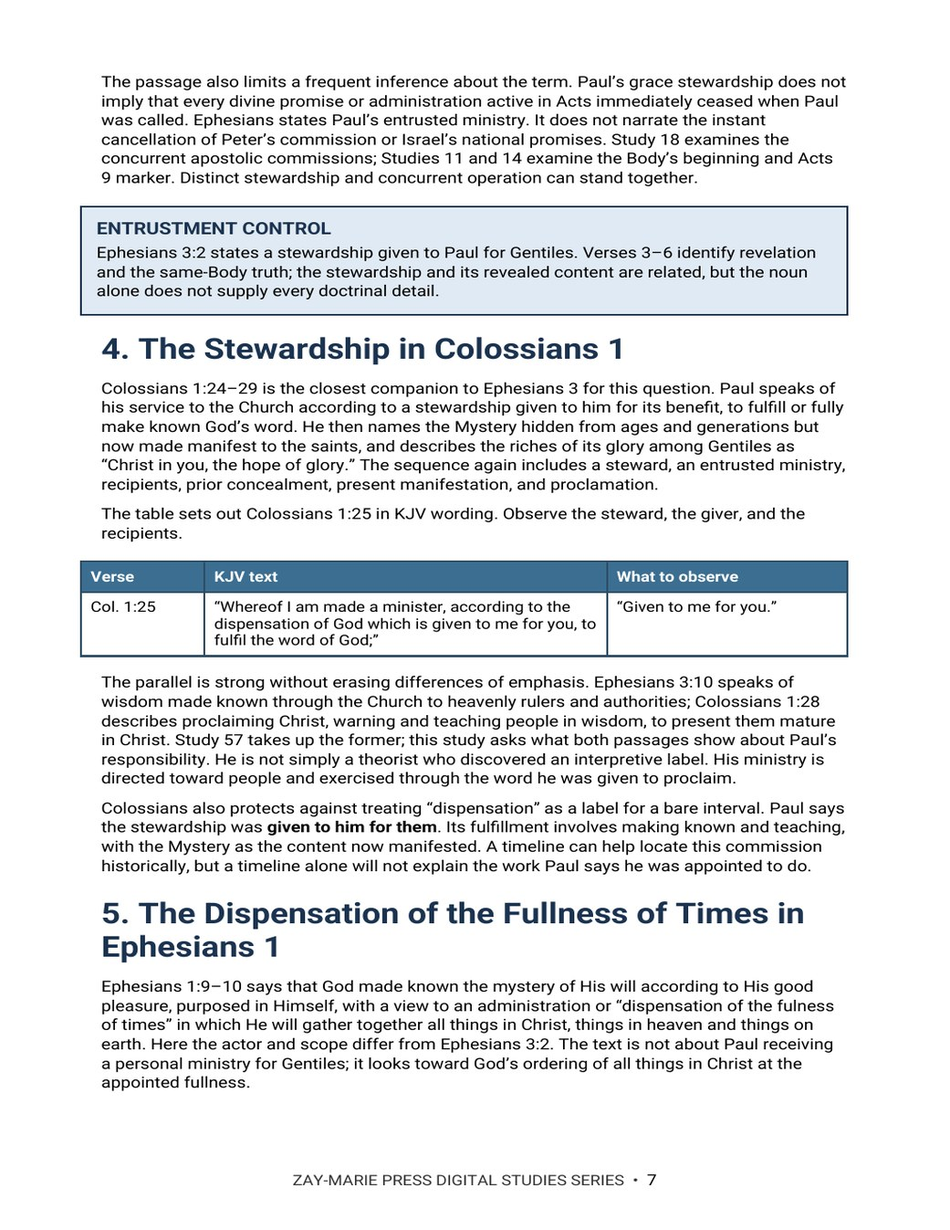
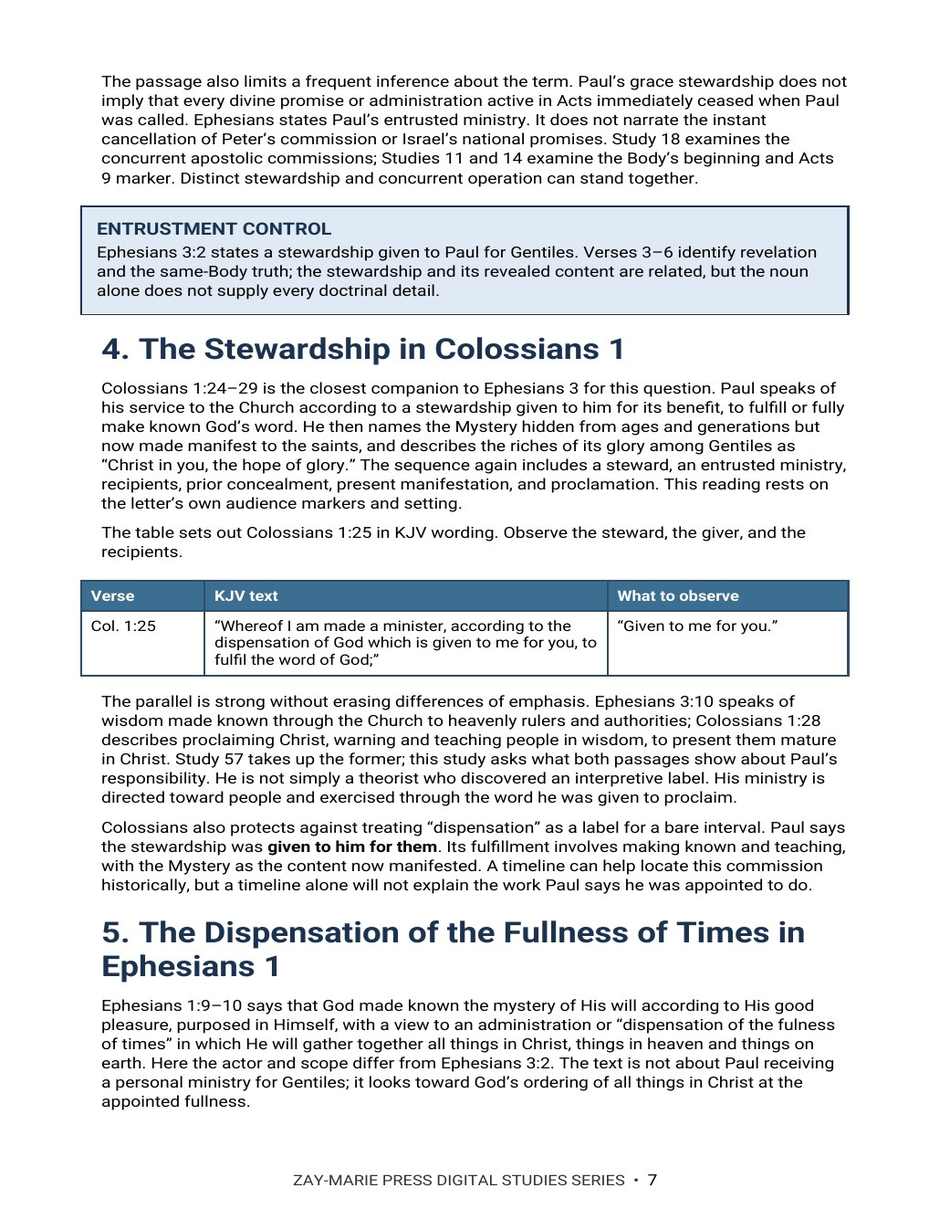
Study 58 retrofit: page-7 preview, site.js 58:16, trackers v1.20 / PAM audit v1.113
Claude-Session: https://claude.ai/code/session_01KcENxFzE91mCRyTPWhcwnE

diff --git a/site.js b/site.js
@@ -62,7 +62,7 @@ const resourceModal=document.querySelector('#resource-modal'), resourceModalTitl
 if(resourceModal&&resourceModalTriggers.length){const closeResourceModal=()=>{resourceModal.hidden=true;document.body.classList.remove('resource-modal-open');lastResourceTrigger?.focus();};resourceModalTriggers.forEach(trigger=>trigger.addEventListener('click',()=>{lastResourceTrigger=trigger;if(resourceModalTitle)resourceModalTitle.textContent=trigger.dataset.title||'Resource';if(resourceModalDescription)resourceModalDescription.textContent=trigger.dataset.description||'';if(resourceModalLink){resourceModalLink.href=trigger.dataset.href||'#';resourceModalLink.textContent=trigger.dataset.linkText||'OPEN RESOURCE';}resourceModal.hidden=false;document.body.classList.add('resource-modal-open');resourceModalClose?.focus();}));resourceModalClose?.addEventListener('click',closeResourceModal);resourceModal.addEventListener('click',e=>{if(e.target===resourceModal)closeResourceModal();});document.addEventListener('keydown',e=>{if(e.key==='Escape'&&!resourceModal.hidden)closeResourceModal();});}
 
 /* Display the verified final-PDF page count at the primary purchase decision point. */
-const digitalStudyPageCounts={1:14,2:14,3:18,4:18,5:16,6:16,7:16,8:16,9:16,10:23,11:15,12:14,13:19,14:15,15:16,16:16,17:18,18:18,19:16,20:16,21:16,22:16,23:16,24:16,25:17,26:18,27:16,28:16,29:16,30:17,31:19,32:16,33:16,34:16,35:16,36:16,37:16,38:16,39:16,40:16,41:16,42:16,43:16,44:16,45:16,46:16,47:16,48:16,49:17,50:16,51:16,52:16,53:16,54:16,55:16,56:16,57:16,61:16,62:16,63:16,64:16,65:16,66:16,67:16,68:16,69:16,70:16,71:16};
+const digitalStudyPageCounts={1:14,2:14,3:18,4:18,5:16,6:16,7:16,8:16,9:16,10:23,11:15,12:14,13:19,14:15,15:16,16:16,17:18,18:18,19:16,20:16,21:16,22:16,23:16,24:16,25:17,26:18,27:16,28:16,29:16,30:17,31:19,32:16,33:16,34:16,35:16,36:16,37:16,38:16,39:16,40:16,41:16,42:16,43:16,44:16,45:16,46:16,47:16,48:16,49:17,50:16,51:16,52:16,53:16,54:16,55:16,56:16,57:16,58:16,61:16,62:16,63:16,64:16,65:16,66:16,67:16,68:16,69:16,70:16,71:16};
 const digitalStudyMatch=window.location.pathname.match(/\/study-(\d+)-/i);
 const digitalStudyFormat=document.querySelector('.detail-hero .detail-format');
 if(digitalStudyMatch&&digitalStudyFormat){const studyNumber=Number(digitalStudyMatch[1]),pageCount=digitalStudyPageCounts[studyNumber];if(pageCount)digitalStudyFormat.textContent=`Digital PDF · ${pageCount} Pages`;}

diff --git a/CLAUDE.md b/CLAUDE.md
@@ -18,7 +18,7 @@ These are kept in the repo at `controlling-documents/` and are the current versi
 - **`controlling-documents/Zay-Marie_Press_Digital_Studies_Master_Standard_v1.45.pdf`** — Master Standard v1.45 (an editable `.docx` copy sits beside the PDF). Governs study structure, cover, PDF assembly, website package and publication (includes §16 Individual Study Preview Selection Standard). §16 fixes the preview set at exactly three pages: Table of Contents, What You Will Learn, and one further page of real substance that does not give away the study's thesis. As of v1.19, §2 (Forward Cover System) adds a Cover Art Brief step: Claude drafts a detailed written cover art description (image concept, composition, palette, lighting, symbolic content) for the publisher to hand to the illustrator, before the illustrator produces artwork — see Approval Checkpoint 3 below. As of v1.20, §6 (Body-Content Standard) fixes exact interior spacing values: body paragraphs 6pt space-after / 0pt space-before / 1.08 line spacing; Heading 1 14pt space-before / 8pt space-after; Heading 2 10pt space-before / 5pt space-after. As of v1.21, §9 (Content-Depth and Page-Length Standard) fixes the substantive-interior page count at exactly 15 pages, replacing the prior 13–17 page range; matching references updated in the Page-Count Control note (§3) and Stages 2 and 4 of the Study Development and Approval Workflow (§14). As of v1.22, §18 (About This Study — Related-Study Distinction Standard, originally added as §17 and renumbered by v1.24) requires a second paragraph in every study's About This Study section, placed before the "How These Studies Relate" box: it names the specific neighbouring studies a reader might confuse this one with, states what ground each one covers that this study doesn't (or vice versa), and closes with the single narrower question this study alone answers — see the "About This Study" bullet below. Governs new studies going forward; existing studies get it when reopened or when the publisher directs a retrofit. As of v1.23, §13 (Tables Symbols and Contrast Standard) changes the table-header treatment from dark navy to Slate Blue (#3B6E91) with high-contrast light text retained; the border-color cross-reference in the same section is updated to match. Applies to all studies going forward. As of v1.24, new §17 (Preview-Page Interpretive-Outcome Standard) codifies the publisher's 2026-09-28 preview-page conclusion-spoiler directive (see the section below) as a Master Standard requirement: preview pages must state interpretive outcomes and name the textual markers the reader will trace, never the study's doctrinal conclusion. Adding it renumbered the former §17/§18/§19 to §18 (About This Study), §19 (Locked Status), and §20 (Version History). As of v1.25 (publisher directive, 2026-09-28), §5 (Table of Contents Standard) requires Arabic numerals only — Roman numerals are never used in a Table of Contents — and a single flat list on one left-aligned axis: What You Will Learn in This Study, Introduction, the teaching sections numbered exactly as in the body, then Conclusion through Final Synthesis; Study Goal and Study Outline are not TOC entries. As of v1.26 and v1.27 (publisher directive, 2026-09-30), §8 (renamed Color and Typography Control) carries the Interior Typeface Standard: every Digital Study interior and Doctrinal Packet, headings included, is set in **Roboto** in four true faces (Regular, Italic, Bold, Bold Italic; static files; lining numerals), with no other or fallback font embedded. v1.26 first specified EB Garamond; the publisher replaced it with Roboto in v1.27 after a Study 2 test build. It applies to all studies past, present and future, and to Doctrinal Packets; Stages 3 and 4 of §14 require it and a `pdffonts` check. Existing studies move to it when reopened or when the publisher directs. The static Roboto files and the build recipe are in `fonts/` (see `fonts/README.md`); the Framework carries the rule as PAM Rule 6 and a dated Section 4 (continued) entry. The v1.26/v1.27 files were rebuilt from the publisher's v1.13 DOCX (Sections 1–2) plus the v1.25 text. As of v1.28 (publisher directive, 2026-09-30): §4 requires exactly five callouts per study, all boxed (light-blue box, 1 pt dark navy border, bold uppercase navy title; extra source callouts become body paragraphs with a bold run-in lead, wording unchanged); §10 places the copyright notice only in the end imprint, with no front copyright page; §13 makes table body rows plain white under Slate Blue headers. As of v1.29 (publisher directive, 2026-09-30), §5 sets Table of Contents entries at the body-paragraph spacing (6 pt after, 1.08 line spacing) as first shown in Study 5, for studies built from Study 6 forward; Studies 1–5 and 9 keep their current TOC spacing unless reopened. As of v1.30 (publisher directive, 2026-09-30), §6 sets Heading 1 (numbered major sections) at 12 pt space-before and 8 pt space-after, replacing 14 pt space-before, as compared side by side on Study 6 page 5; it applies to studies built from Study 6 forward, and Studies 1–5 and 9 (built at 14 pt) are not reopened for it. Heading 2 (10/5) and body paragraphs (6 pt after, 1.08) are unchanged. As of v1.31 (publisher directive, 2026-10-01), new §19 (Catalog Category Standard) fixes the five catalog categories, the ordered decision procedure, the precedents, the 71 final assignments and the cover-label forms (working copy and version history in `controlling-documents/Digital_Studies_Category_Standard_v1.1.md`); Locked Status and Version History moved to §20 and §21. As of v1.32 (publisher directive, 2026-10-01), the upper-right cover label must be the exact name of the study's catalog category (§2 Cover Architecture and §19 Cover Labels); the shortened and legacy labels RIGHT DIVISION, PROPHECY, DOCTRINE, INTERPRETATION and BIBLICAL DOCTRINE are retired and all 71 covers were re-lettered. As of v1.33 (publisher directive, 2026-10-01), new §20 (Doctrinal Drafting Standard) carries PAM Rules 7–10 from the Framework so settled rulings are applied without being asked again: identity wording ("the Israel of God" = believing Jews within the Body, Israel by identity; never "believing Israel" alone; never a remnant beside or outside the Body in the present administration; required clarifier "This speaks of identity, not program membership; the remnant is ethnic-covenantal, and believing Jews are gathered into the Body during the Mystery administration"; Gentiles participate spiritually, never called Israel or "spiritual Israel"); the anchoring-sentence rule for books the PAM does not assign (Hebrews, Revelation, James, 1 Peter, 2 John; Philippians, 1 Thessalonians, 2 Timothy; Gal 2:1–10 report-only); standing wording for the Acts divisions, "the 'one taken, one left' passages", Eph 2:14 "abolished for the Body", judgment and related rulings; and the review procedure (conforming wording is applied and noted in one line, and only a new or uncovered passage is reported for a ruling). Locked Status and Version History moved to §21 and §22. As of v1.34 (publisher directive, 2026-10-01), Rule 7 adds the overlap-period rule: Peter's believing company and the circumcision apostleship during Acts 9–28 may be described as continuing under the Prophecy Program only with the clarification "During the overlap, the circumcision apostleship ministers to Israel under the Prophecy Program; believing Jews are gathered into the Body through Paul's ministry, and this speaks of identity, not program membership" (program membership and corporate identity are not the same question; no believing Israelite is placed outside the Body after Acts 9). As of v1.35 (publisher directive, 2026-10-01), §20 adds Rule 11: Paul's fillings, signs and miraculous events in Acts 9–28 are overlap phenomena, reported from the text and not assigned to a single program; they occur in settings shaped by Israel's Prophecy Program, but Paul's participation does not convert them into Prophecy Program content or make them Mystery content (standing wording: "These are recorded in settings shaped by Israel's Prophecy Program, which remained operative throughout Acts 9–28 even as the Mystery Program began. Acts 9–28 is the overlap; where Paul or his companions are the ones filled or working signs, the study reports the text and does not assign the event to a single program."; Acts table column title "The Spirit's Activity Recorded in Acts"; speaker identity is not program identity, and historical participation is not doctrinal obligation). Rule 10 refers to Rules 1–9 and 11. As of v1.36 (publisher directive, 2026-10-01), §20 adds Rule 12: where the PAM does not assign a book or passage, the study may use the text for universal doctrinal truth without assigning the book to a program, and must include the anchoring sentence "The Framework does not assign this book; this reading rests on the passage's own audience markers and setting." (it extends Rule 8 to unassigned books and passages Rule 8 does not name); Rule 10 refers to Rules 1–9, 11 and 12. As of v1.45 (publisher directive, 2026-10-02), §20 Rules 8, 12 and 14 carry the **reader-facing wording rule, extended**: internal working terms never appear in reader-facing text. The Framework, the PAM (Program Assignment Manual), the Master Standard, rule numbers, standing sentences, anchoring sentences, review notes, audit trackers, "firewall" and every similar working term are never named, cited or alluded to in study text, website copy or Doctrinal Packets. The Rule 8 and Rule 12 anchor sentences and the Hebrews sentence are replaced by reader-facing forms: for a book, "This reading rests on the letter's own audience markers and setting."; for a passage, "This reading rests on the passage's own audience markers and setting." (plural "these passages … the passages' own audience markers and setting"); the Hebrews sentence becomes "This reading rests on the letter's own audience markers and on the covenant it quotes (Jeremiah 31:31–34), which belongs to the house of Israel and the house of Judah, the Body benefiting from Christ's blood without being the covenant party." Whether a line is needed is still decided by the reviewer's classification (book not assigned or listed; passage in a PAM-assigned book with no PAM entry; other Rule 12 cases), but the reader sees one sentence and no internal term. The v1.44 "The Framework does not assign …" and "The PAM makes no assignment …" wordings are WITHDRAWN and are converted when a study is reopened or in the Wave 5 sweep; first applied to Study 55. Written into the Framework Rules 8, 12 and 14 in the same pass. As of v1.44 (publisher directive, 2026-10-02), §20 Rule 12 adds **anchor wording by classification** (superseded by v1.45 for the sentence text) (also written into Framework Rule 12): a book the PAM does not assign or list (Philippians, Hebrews, James, 1 Peter, 2 John) keeps "The Framework does not assign [book] as a book; this reading rests on the letter's own audience markers and setting."; a passage inside a PAM-assigned book (Galatians, Romans, Ephesians, Corinthians, Acts, John, Luke) that has no PAM entry takes "The PAM makes no assignment for this passage; this reading rests on the passage's own audience markers and setting." (plural "these passages" where a line covers several). First applied to Study 51; every study brought through the retrofit is checked for it. As of v1.43 (publisher directive, 2026-10-02), §20 Rule 14 adds the **reader-facing wording rule** (also written into Framework Rule 14): "firewall," "Olive Tree Firewall" and similar control labels are internal drafting terms and never appear in study text, website copy or Doctrinal Packets; studies state the boundaries in plain language (for example "Four boundaries govern the reading:"), and any term a study has not itself introduced and defined is treated the same way. Studies 9, 13, 35 and 36 were corrected on 2026-10-02. As of v1.42 (publisher directive, 2026-10-02), §20 Rule 14 adds the **Romans 11 Strong Firewall** as a standing rule for every Romans 11 treatment in every study (also written into Framework Rule 14): Romans 11 explains prophetic participation, not corporate identity, covenant membership or Mystery formation; the wild branch does not become Israel, enter Israel's covenants or become a natural branch; the olive tree is not the Body; standing triad "Participation is not identity. Blessing is not covenant. Standing is not program membership."; "Identity is fixed by divine program, not by metaphor."; "Salvation has come to the Gentiles" means salvation, not covenant, prophetic identity or Israel's program; four-point governing list (olive tree = prophetic blessing; Romans 11 Gentiles = prophetic participants; wild branches are not Body members; grafting changes participation, not identity); warning line on identity transfer; concurrency close ("Concurrency is operational, not transformational."). Depth: a study that treats Romans 11 at length carries the full firewall in the voice of Study 13 v2 (the reference text); a passing citation carries at least the four-point list and the triad; a mild clarification is not sufficient. Studies 9, 21, 35, 36 and others are brought to it when reopened or when the publisher directs. As of v1.41 (publisher directive, 2026-10-02), Rules 7 and 15 carry two approved standing sentences for the retrofit: overlap — "During the overlap, the circumcision apostleship ministers to Israel under the Prophecy Program, and Paul's gospel forms the Body; the two operate concurrently and never merge, transfer or absorb one another." (replaces the withdrawn "gathered into the Body" sentence); Galatians 3 — "The seed is prophetic fulfillment in Christ; the Body receives blessing through Christ alone, not through participation in the Abrahamic covenant." (replaces all older Abrahamic-participation language). As of v1.40 (publisher directive, 2026-10-02), Rules 7 and 17 add the ruling that a Jewish member of the Body is not Israel: Body by identity, new creation by ontology, non-Israel by corporate identity, non-prophetic by program membership, non-covenantal by blessing structure, heavenly by destiny; ethnicity is a historical fact with no covenantal or programmatic force once a person is in the Body. The Rule 7 line "Israel remains Israel; the ethnic distinction is kept" is replaced by "Israel remains Israel, and the Body is not Israel"; the Framework identity sections (§V, PAM definition 2) carry it too. As of v1.39 (publisher directive, 2026-10-02), §20 adds Rule 17 (The remnant and the Body during Acts 9–28), also written into the Framework §XIX: the remnant never becomes the Body and stays outside the Body, the Mystery Program, the heavenly calling and Pauline identity; the Body is formed only by Paul's gospel from Acts 9, is gathered in on belief and is not Israel or the remnant; no shared identity, membership, covenant, gospel, hope, Spirit ministry or destiny; the standing summary sentence ("During Acts 9–28, the remnant remains Israel's prophetic believing company, and the Body remains the Mystery new creation. They coexist historically but never merge in identity, membership, calling, covenant, gospel, hope, or destiny. Concurrency is operational, not transformational.") and the one-sentence relationship rule are used wherever the relationship is stated; Rule 10 now reads "Rules 1–9 and 11–17". As of v1.38 (publisher directive, 2026-10-02), §20 (Doctrinal Drafting Standard) is amended and extended to carry the Framework's doctrinal upgrade: Rules 7–10 are rewritten and Rules 13–16 are added (see the Framework entry above for the points and the withdrawn wordings); Rule 10 now reads "Rules 1–9 and 11–16"; Rule 8 no longer lists Revelation as unassigned. As of v1.37 (publisher directive, 2026-10-02), a new "Study 52 Reference Standard" subsection in §6 makes Study 52 (Sonship and Adoption) the **golden standard** for the format, structure and blue/black type balance of every Digital Study from Study 53 forward: navy (#1B3350) only on major-section headings (Roboto Bold 17 pt), callout titles (10 pt bold caps) and the "Study Outline" sub-heading (12 pt bold); everything else black Roboto Regular 9 pt; numbered subsections (1.1, 1.2 …) are body-weight black lines at body spacing, not navy headings (as in Studies 50, 51 and 52); about 1–2% of interior characters navy; the section order, five boxed callouts, KJV tables (Verse / KJV text / What to observe), Scripture-Tracing, Review, Teaching Outline, Guided Further Study, Final Synthesis and single end imprint on a 16-page build. Studies 1–51 are NOT retrofitted and stay as published; build every new study to Study 52's final approved PDF/DOCX as the visual reference, and do not set subsections in navy. The §6 Heading 2 line was clarified (10/5 applies to unnumbered sub-headings such as "Study Outline"). See §22 Version History in the document itself.
 - **`controlling-documents/Digital_Studies_Relationship_Map_v1.39.md`** — records each study's distinct subject, its related studies, the eight priced six-study collections, the Paul's Missionary Journeys cross-reference map, and the five primary catalog categories (currently version 1.39, covers Studies 1–71; update it as new studies publish, bump the version number, rename the file to match, and log the change in its own version-history table — mirroring the Master Standard's `_vX.Y` filename convention). Check a proposed topic against it before recommending or writing a new study. (2026-09-28: the file was missing from this repo despite this note referencing it; replaced from the publisher's copy and bumped v1.15→v1.25 in the same pass. If this note ever again points to a version not present under `controlling-documents/`, ask the publisher for a copy rather than proceeding without the check.)
 - **`controlling-documents/Digital_Studies_Category_Standard_v1.1.md`** — FINAL and binding (publisher, 2026-10-01): the rules for the five primary catalog categories (Foundations, Israel & Prophecy, Body of Christ, Passages, Doctrinal Themes), the ordered decision procedure for new studies, the precedents, all 71 fixed assignments, and the cover-label form for each category. Read it before placing any card or cover label. Do not ask the publisher where a study belongs; apply the procedure and state the result. Only the publisher changes a ruling; then bump this Standard's version and filename, re-letter the cover, and update the Relationship Map.
-- **`controlling-documents/Doctrinal_Upgrade_Retrofit_Plan_v1.19.md`** — working tracker for retrofitting Studies 1–59 to the 2026-10-02 doctrinal upgrade (Framework/PAM v1.1, Master Standard v1.40, Rules 7–17): withdrawn-wording search keys, impact tiers, waves and the per-study method. Read it before continuing the retrofit in any session; update status, bump the version and rename the file as work proceeds.
+- **`controlling-documents/Doctrinal_Upgrade_Retrofit_Plan_v1.20.md`** — working tracker for retrofitting Studies 1–59 to the 2026-10-02 doctrinal upgrade (Framework/PAM v1.1, Master Standard v1.40, Rules 7–17): withdrawn-wording search keys, impact tiers, waves and the per-study method. Read it before continuing the retrofit in any session; update status, bump the version and rename the file as work proceeds.
 - **`controlling-documents/Doctrinal_Packet_Standard_v0.3.md`** — Doctrinal Packet Standard (DRAFT; §7 approved). Governs the separate Doctrinal Packets product strand (5-page interpretive PDFs per Bible book — a print-friendly cover as page 1 plus 4 content pages, $2.99, KJV, pilot: Genesis, live at `packet-genesis.html`, hub `doctrinal-packets.html`; site pages say "5 Pages", cover styles live in `packets.css`, Old Testament blue and New Testament soft pale green, hub listed in Bible order). **Preview rule (publisher directive, 2026-09-29, packets only):** previews show about one page's worth in two cropped views (top of page 1 through the anchor texts; the chart section) — never the exegesis, architecture, Mystery contrast, logic chain, outline, or closing. Master Standard §16/§17 still govern Digital Studies. Bump the version and rename the file as the Standard is finalized.
 - **`controlling-documents/Preview_Page_Spoiler_Retrofit_Audit_v1.4.md`** — working tracker for the Studies 1–60 preview-page conclusion-spoiler retrofit (see the section below). Read it before continuing that audit in any session; update its status fields and changelog, bump the version, and rename the file to match as the audit proceeds — same `_vX.Y` convention as the other controlling documents. As of v1.1, the website-side half was DONE: all 60 studies' "What You'll Study" text was judged against the rule (methodology documented in the file) and 22 points across 11 studies were rewritten and pushed; an unrelated Study 22 content bug (Study 21's content had leaked into it) was also found and fixed. As of v1.2, the publisher supplied Studies 1–60's interior production PDFs and the interior-PDF half was also surveyed (read-only): 10 studies (37, 41, 45, 47, 48, 49, 51, 52, 53, 54) were found to have at least one interior "What You Will Learn" violation, 50 studies were confirmed compliant, and the orphaned `assets/study-45-sanctification-under-grace.docx` (removed from the repo per the publisher in v1.0) was confirmed word-for-word identical to Study 45's actual production interior PDF content. As of v1.3, the publisher supplied editable DOCX sources for all 10 violating studies; all 15 violating points were rewritten and approved, delivered as corrected final PDFs, and — along the way — a second defect was found and fixed (Studies 47 and 48's source DOCX still had an unintegrated cover placeholder despite both being long-published live with real covers; fixed by inserting the existing approved cover art). The website's "What You Will Learn" preview image (`study-NN-page-3.jpg`) was regenerated from the corrected content for all 10 studies and pushed to `main` (commit `cea1859`), verified against a fresh clone. **The website side of this audit is now fully compliant for all 60 studies.** Outstanding: the publisher's purchasable interior PDF files themselves have corrected versions delivered, but distribution to existing purchasers was decided by the publisher on 2026-09-29: silent swap of the files behind the existing downloads, no reissue notice (recorded in the v1.4 changelog entry; the product files are not in this repo).
 

diff --git a/controlling-documents/Doctrinal_Upgrade_Retrofit_Plan_v1.20.md b/controlling-documents/Doctrinal_Upgrade_Retrofit_Plan_v1.20.md
@@ -36,7 +36,7 @@ Working tracker for correcting published studies to the Framework/PAM v1.1, Mast
 | 54 Justification | overlap sentence + Gal 3 | DONE 2026-10-02 (v1.16): overlap sentence replaced (4.3); withdrawn Gal 3 'participate spiritually' wording replaced by the standing Galatians 3 sentence (5.4, Group 3); 19 passage anchors converted to the PAM form (James and Philippians unchanged); Romans 11:6 note with boundary sentence, four-point list and triad (Group 1); layout-only tightening of Guided Further Study to hold 16 pp; website unchanged except preview images study-54-page-2, -3 and -5 re-rendered from the final PDF at 1041×1562 (page 5 text changed; 2 and 3 re-cut to match the final PDF's page size) |
 | 56 Inheritance | overlap sentence + Gal 3 | DONE 2026-10-02 (v1.18): interior corrected (16 pp, Roboto; no layout change needed). Withdrawn Galatians 3 'participate spiritually' wording (§4) replaced by the standing Galatians 3 sentence; withdrawn clarifier (Ephesians 1, §6) replaced by the Rule 17 sentence; withdrawn overlap sentence replaced by the standing sentence (§8 and §9); Acts 28 'not a transfer' added (§2, §9). Reader-facing anchors for 1 Peter, Hebrews and Colossians (no 'Framework'/'PAM' wording in the text). Ephesians 1:11–14, Romans 8:14–25, Galatians 4:4–7 and Acts 20:32 carry no anchor (not used for a universal claim). Four 'CONTROL' callout titles kept (publisher). Website unchanged (16 pp in site.js and page text; previews 2, 3 and 4 text identical, no re-render). |
 | 57 The Eternal Purpose of God | overlap sentence | DONE 2026-10-02 (v1.19): interior corrected (16 pp, Roboto; no layout change needed). Withdrawn overlap sentence replaced with the standing sentence (§7); Acts 28 'not a transfer' added (Introduction, §7); 2 Timothy anchor converted to the reader-facing form (§1); 'Acts Overlap framework' working term removed (Introduction, third pass); Romans 11 four-point list and triad added (third-pass Investigation). Website text and previews (pp. 2, 3, 7) unchanged; site.js 16 confirmed |
-| 58 What Is a Dispensation? | overlap sentence | pending |
+| 58 What Is a Dispensation? | overlap sentence | DONE 2026-10-02 (v1.20): interior corrected (16 pp, Roboto; no layout change needed). Withdrawn overlap sentence replaced with the standing sentence (§5); Acts 28 'not a transfer' added (Introduction, §5 twice, Investigation); 'this framework' / 'Acts Overlap framework' working terms removed (§3, §5, Study Summary); Colossians anchor added (§4). Website: page-7 preview re-rendered (anchor sentence added on that page); site.js 58:16 added |
 ### Tier 2 — Galatians 3 / Abrahamic participation wording
 40 Who Is Abraham's Seed? (core), 52 Sonship and Adoption, 54, 56 (confirmed in text); 39, 17, 12 and 53 to be read (Abrahamic/covenant participation).
 ### Tier 3 — Romans 11 / olive tree (firewall to add)
@@ -84,3 +84,4 @@ Working tracker for correcting published studies to the Framework/PAM v1.1, Mast
 - v1.17 (2026-10-02): Study 55 retrofit complete (see row). New standing rule recorded (Framework Rules 8, 12, 14 / Master Standard v1.45 / CLAUDE.md): internal working terms never appear in reader-facing text; the v1.44 anchor wordings are withdrawn. Next: Study 56 (also Gal 3).
 - v1.18 (2026-10-02): Study 56 retrofit complete (see row). Next: Study 57 (The Eternal Purpose of God), then 58.
 - v1.19 (2026-10-02): Study 57 retrofit complete (see row). Next: Study 58 (What Is a Dispensation?), then Wave 3.
+- v1.20 (2026-10-02): Study 58 retrofit complete (see row); Wave 2 complete. Next: Wave 3 (Study 52 first, sources on hand). Note: site.js digitalStudyPageCounts had no entries for 57 and 58 (both added, 16); 59 and 60 are still absent and are to be checked in the Wave 5 sweep.

diff --git a/controlling-documents/Digital_Studies_PAM_Audit_v1.113.md b/controlling-documents/Digital_Studies_PAM_Audit_v1.113.md
@@ -342,3 +342,4 @@ Study 15 PDF not yet supplied. Typography: none of Studies 2, 3, 6, 8 is in EB G
 - v1.110 (2026-10-02): Study 55 retrofitted: withdrawn overlap sentence replaced with the standing sentence (5.3); withdrawn 'ethnic-covenantal / gathered into the Body' clarifier in Investigation 5 replaced by the four-point list and the Rule 17 sentence; Romans 11 triad added (8.2); Acts 28 'not a transfer' added (5.3, 8.1); anchors for Romans 5:1–11, 2 Corinthians 5:14–21 and Colossians written in the reader-facing form (no internal terms). Website unchanged.
 - v1.111 (2026-10-02): Study 56 retrofitted: withdrawn Galatians 3 'Gentile believers participate spiritually' wording replaced by the standing Galatians 3 sentence (Section 4); withdrawn 'ethnic-covenantal / gathered into the Body' clarifier replaced by the Rule 17 sentence (Section 6, Ephesians 1); withdrawn overlap sentence replaced by the standing sentence (Sections 8, 9); Acts 28 'not a transfer' added (Sections 2, 9); 1 Peter, Hebrews and Colossians anchors written in the reader-facing form (no internal terms). Website unchanged.
 - v1.112 (2026-10-02): Study 57 retrofitted: withdrawn overlap sentence replaced with the standing sentence (Section 7); Acts 28 'not a transfer' added (Introduction, Section 7); 2 Timothy anchor converted to the reader-facing form (Section 1); 'Acts Overlap framework' working term removed from reader text (Introduction, third-pass Investigation); Romans 11 four-point list and triad added (third-pass Investigation). Review copy 16 pp, Roboto only; website previews unchanged.
+- v1.113 (2026-10-02): Study 58 retrofitted: withdrawn overlap sentence replaced with the standing sentence (Section 5); Acts 28 'not a transfer' added (Introduction, Section 5, Investigation); 'this framework' / 'Acts Overlap framework' working terms removed from reader text; Colossians anchor added (Section 4, reader-facing form). Review copy 16 pp, Roboto only; page-7 website preview re-rendered.
